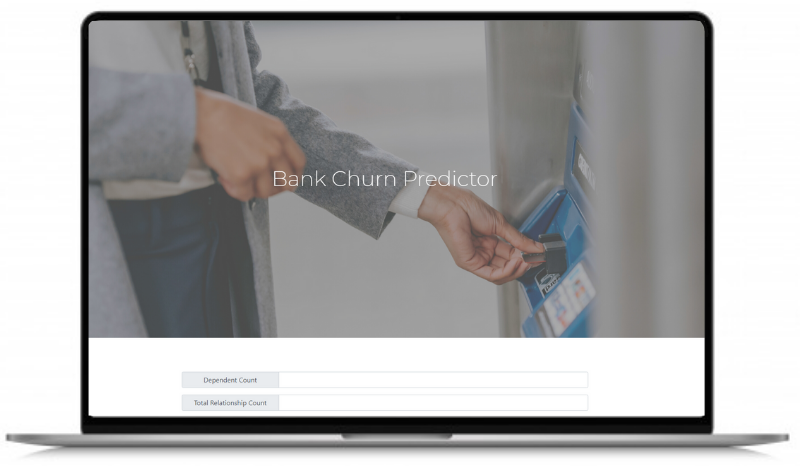
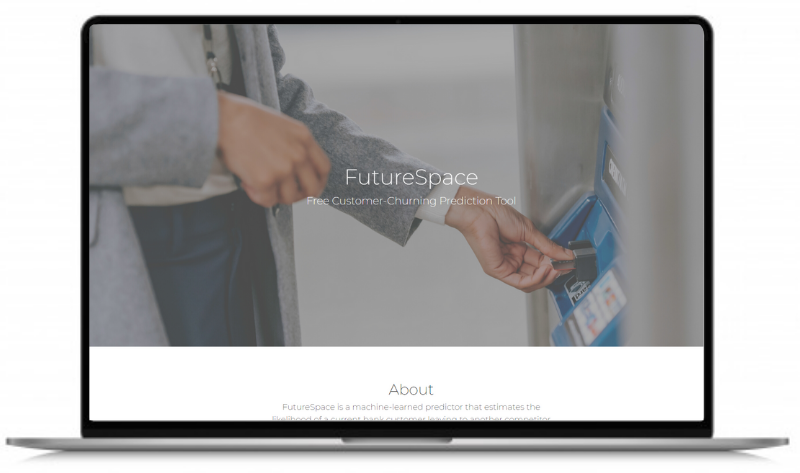
churn update

Changed region(s): [[0.0938, 0.0, 0.9062, 0.7511], [0.0, 0.8112, 1.0, 0.9914]]

diff --git a/src/js/Projects.js b/src/js/Projects.js
@@ -164,7 +164,7 @@ const Slot_4 = (props) => {
             </text>
             <div>
               <button className='Button Button_styling'
-                onClick={() => Redirector('https://bank-churn-predictor.web.app/')}>
+                onClick={() => Redirector('https://futurespace-predict.web.app/')}>
                 WEBSITE
               </button>
               <button className='Button Button_styling'
